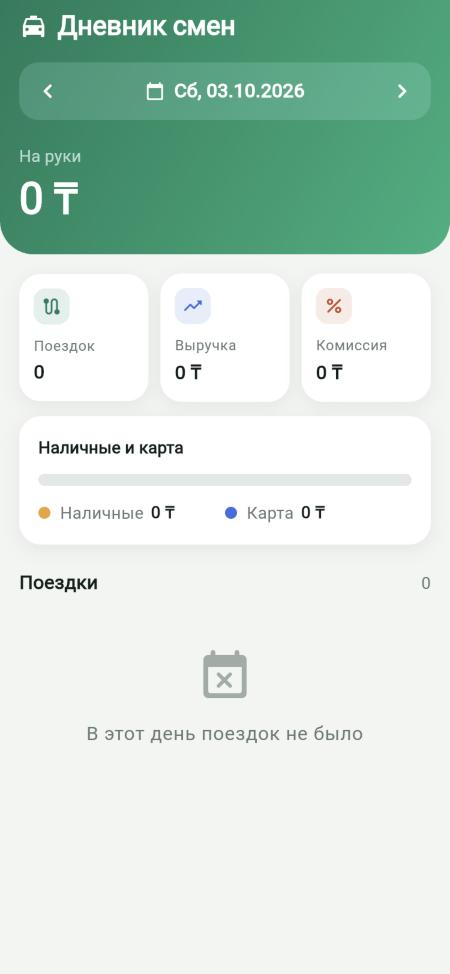
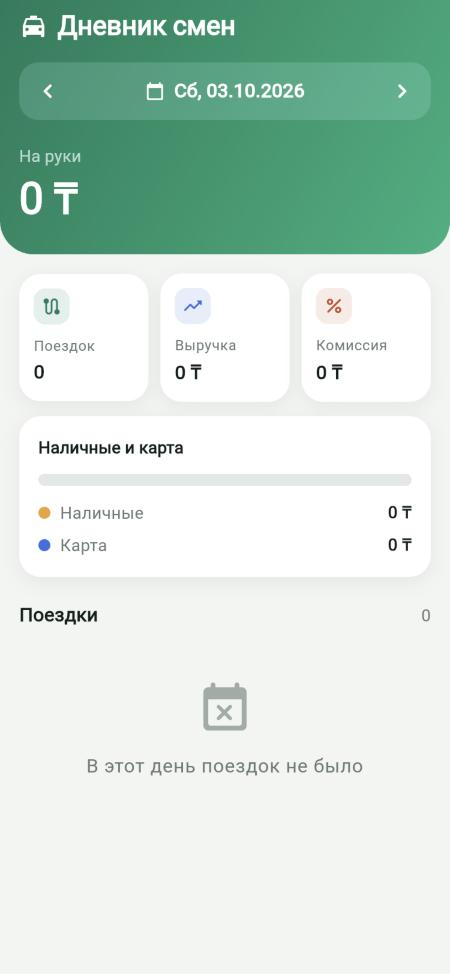
Fit small screens and large text
- Cash/card legend on two rows: on 320px screens the amount was cut off
- Header title and date shrink instead of overflowing
- Widget test: 320px screen, 130% text size, 8-digit amounts, no overflow

diff --git a/mobile/lib/widgets.dart b/mobile/lib/widgets.dart
@@ -61,9 +61,12 @@ class DayHeader extends StatelessWidget {
                 children: [
                   const Icon(Icons.local_taxi_rounded, color: Colors.white),
                   const SizedBox(width: 8),
-                  Text(
-                    'Дневник смен',
-                    style: text.titleLarge?.copyWith(color: Colors.white, fontWeight: FontWeight.w700),
+                  Flexible(
+                    child: Text(
+                      'Дневник смен',
+                      overflow: TextOverflow.ellipsis,
+                      style: text.titleLarge?.copyWith(color: Colors.white, fontWeight: FontWeight.w700),
+                    ),
                   ),
                 ],
               ),
@@ -123,12 +126,17 @@ class _DateSwitcher extends StatelessWidget {
                   children: [
                     const Icon(Icons.calendar_today_rounded, size: 16, color: Colors.white),
                     const SizedBox(width: 8),
-                    Text(
-                      date == null ? '…' : displayDate(date!),
-                      style: Theme.of(context)
-                          .textTheme
-                          .titleMedium
-                          ?.copyWith(color: Colors.white, fontWeight: FontWeight.w600),
+                    Flexible(
+                      child: FittedBox(
+                        fit: BoxFit.scaleDown,
+                        child: Text(
+                          date == null ? '…' : displayDate(date!),
+                          style: Theme.of(context)
+                              .textTheme
+                              .titleMedium
+                              ?.copyWith(color: Colors.white, fontWeight: FontWeight.w600),
+                        ),
+                      ),
                     ),
                   ],
                 ),
@@ -268,12 +276,10 @@ class PaymentSplit extends StatelessWidget {
             ),
           ),
           const SizedBox(height: 12),
-          Row(
-            children: [
-              Expanded(child: _Legend(Payment.cash, 'Наличные', summary.cash)),
-              Expanded(child: _Legend(Payment.card, 'Карта', summary.card)),
-            ],
-          ),
+          // One row per payment type: side by side, the amounts got cut off on 320px screens.
+          _Legend(Payment.cash, 'Наличные', summary.cash),
+          const SizedBox(height: 6),
+          _Legend(Payment.card, 'Карта', summary.card),
         ],
       ),
     );
@@ -298,14 +304,17 @@ class _Legend extends StatelessWidget {
           decoration: BoxDecoration(color: paymentColor(payment), shape: BoxShape.circle),
         ),
         const SizedBox(width: 8),
-        Text(label, style: text.bodyMedium?.copyWith(color: AppColors.muted)),
-        const SizedBox(width: 6),
-        Flexible(
+        Expanded(
           child: Text(
-            formatTenge(amount),
+            label,
             overflow: TextOverflow.ellipsis,
-            style: text.bodyMedium?.copyWith(color: AppColors.text, fontWeight: FontWeight.w600),
+            style: text.bodyMedium?.copyWith(color: AppColors.muted),
           ),
+        ),
+        // The amount matters more than the label, so it keeps its full width.
+        Text(
+          formatTenge(amount),
+          style: text.bodyMedium?.copyWith(color: AppColors.text, fontWeight: FontWeight.w600),
         ),
       ],
     );

diff --git a/mobile/test/day_screen_test.dart b/mobile/test/day_screen_test.dart
@@ -136,4 +136,33 @@ void main() {
 
     expect(find.byType(DatePickerDialog), findsOneWidget);
   });
+
+  testWidgets('fits a small phone with large text and big amounts', (tester) async {
+    // 320px wide (iPhone SE) with the system font enlarged by 30%.
+    tester.view.physicalSize = const Size(640, 1136);
+    tester.view.devicePixelRatio = 2;
+    tester.platformDispatcher.textScaleFactorTestValue = 1.3;
+    addTearDown(tester.view.reset);
+    addTearDown(tester.platformDispatcher.clearTextScaleFactorTestValue);
+    final client = MockClient((request) async => switch (request.url.path) {
+          '/api/days' => _json(['2026-10-01']),
+          '/api/days/2026-10-01' => _json({
+              'date': '2026-10-01',
+              'summary': {'trips_count': 120, 'revenue': 99999999, 'commission': 9999999,
+                          'net': 90000000, 'cash': 49999999, 'card': 50000000},
+              'trips': [
+                {'id': 'big', 'start': '2026-10-01T08:10:00+05:00', 'end': '2026-10-01T19:59:00+05:00',
+                 'amount': 9999999, 'payment': 'cash', 'commission': 9999999},
+              ],
+            }),
+          _ => http.Response('not found', 404),
+        });
+
+    await tester.pumpWidget(_app(client));
+    await tester.pumpAndSettle();
+
+    // A layout overflow would have failed the test above; also check nothing was cut off.
+    expect(find.text('49\u00A0999\u00A0999\u00A0₸'), findsOneWidget);
+    expect(tester.takeException(), isNull);
+  });
 }

diff --git a/README.md b/README.md
@@ -81,7 +81,7 @@ backend/
   tests/              43 теста: сводка, дубли, пересечения, часовые пояса, валидация, конкурентность, импорт
 mobile/
   lib/                экран дня, API-клиент, форматирование
-  test/               9 тестов: форматирование, экран, устаревшие ответы, ошибки сети, календарь
+  test/               10 тестов: форматирование, экран, устаревшие ответы, ошибки сети, календарь, маленький экран с крупным шрифтом
 data/trips.json       пример данных
 ```
 
